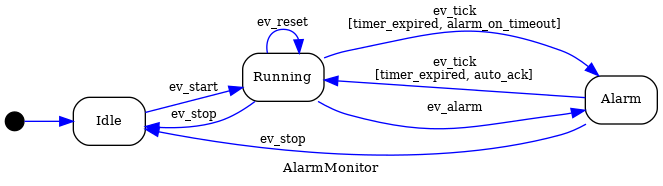
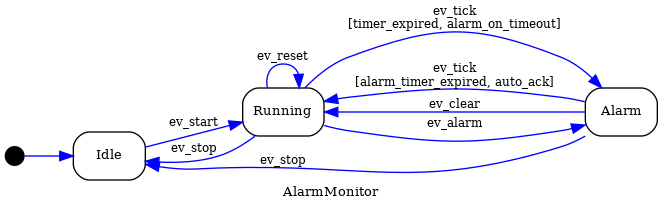
Add Readme file.

diff --git a/main.py b/main.py
@@ -20,8 +20,8 @@ class LogObserver(object):
 
 class AlarmMonitor(StateMachine):
     """Monitor Alarms state machine"""
-    ALARM_TIMEOUT = 5
-    timer = ALARM_TIMEOUT
+
+    alarm_timer = 0
     idle = State("Idle", initial=True)
     running = State("Running")
     alarm = State("Alarm")
@@ -30,11 +30,14 @@ class AlarmMonitor(StateMachine):
     ev_start = idle.to(running)
     ev_reset = running.to.itself()
     ev_tick = running.to(alarm, cond=["timer_expired", "alarm_on_timeout"]) | \
-              alarm.to(running, cond=["timer_expired", "auto_ack"])
+              alarm.to(running, cond=["alarm_timer_expired", "auto_ack"])
     ev_alarm = running.to(alarm)
+    ev_clear = alarm.to(running)
 
-    def __init__(self, name, alarm_on_timeout=True, auto_ack=False, auto_ack_delay=0):
+    def __init__(self, name, alarm_on_timeout=True, alarm_timeout=5, auto_ack=False, auto_ack_delay=0):
         self.name = name
+        self.alarm_timeout = alarm_timeout
+        self.timer = alarm_timeout
         self.auto_ack = auto_ack
         self.alarm_on_timeout = alarm_on_timeout
         self.auto_ack_delay = auto_ack_delay
@@ -48,10 +51,10 @@ class AlarmMonitor(StateMachine):
         return f"Running {event} from {source.id} to {target.id}{message}"
 
     def on_enter_running(self):
-        self.timer = self.ALARM_TIMEOUT
+        self.timer = self.alarm_timeout
 
     def on_enter_alarm(self):
-        self.timer = self.auto_ack_delay
+        self.alarm_timer = self.auto_ack_delay
         print("TODO: Send Alarm message")
 
     def auto_ack(self):
@@ -65,6 +68,14 @@ class AlarmMonitor(StateMachine):
         if self.timer != 0:
             self.timer -= 1
         if self.timer == 0:
+            ret = True
+        return ret
+
+    def alarm_timer_expired(self):
+        ret = False
+        if self.alarm_timer != 0:
+            self.alarm_timer -= 1
+        if self.alarm_timer == 0:
             ret = True
         return ret
 
@@ -122,4 +133,4 @@ if __name__ == '__main__':
     graph = DotGraphMachine(AlarmMonitor)
     dot = graph()
     dot.write_png("AlarmMonMachine_initial.png")
-# See PyCharm help at https://www.jetbrains.com/help/pycharm/
+    # See PyCharm help at https://www.jetbrains.com/help/pycharm/

diff --git a/README.md b/README.md
@@ -1,0 +1,39 @@
+# Alarm monitor class
+
+```
+class AlarmMonitor(StateMachine):
+	ALARM_TIMEOUT = 5
+...
+	def __init__(self, name, alarm_on_timeout=True, auto_ack=False, auto_ack_delay=0):
+```
+## Parameters
+1. `alarm_on_timeout` - if `True` go from **running** to **alarm** state after `ALARM_TIMEOUT` seconds.
+2. `auto_ack` - Go from **alarm** to **running** state after `auto_ack_delay` seconds.
+
+
+![Monitor alarms state machine](https://github.com/oshevchenko/AlarmMonitor/blob/master/AlarmMonMachine_initial.png?raw=true)
+
+
+## States
+**idle** - Initial state. No actions until `ev_start` is received.
+
+
+**running** - Normal operation. Timer is decremented on `ev_tick`. Switch to **alarm**
+state occures after timer is expired (if `alarm_on_timeout` is `True`). Go to **idle** on `ev_stop`.
+
+
+**alarm** - Alarm state. Timer is decremented on `ev_tick`. Go to **running** on timeout 
+after `auto_ack_delay` seconds if `auto_ack` is `True`.
+Go to **running** on `ev_clear`. Go to **idle** on `ev_stop`.
+
+## Events
+1. `ev_start` - Start monitoring.
+2. `ev_stop` - Stop monitoring, go to **idle** state.
+3. `ev_reset` - Reset the `timer`, prevent switching to **alarm** state on timeout (if `alarm_on_timeout` is `True`).
+4. `ev_tick` - Event from timer (once per second).
+5. `ev_alarm` - Go to **alarm** state from **running** state.
+6. `ev_clear` - Go to **running** state from **alarm** state.
+
+
+
+
